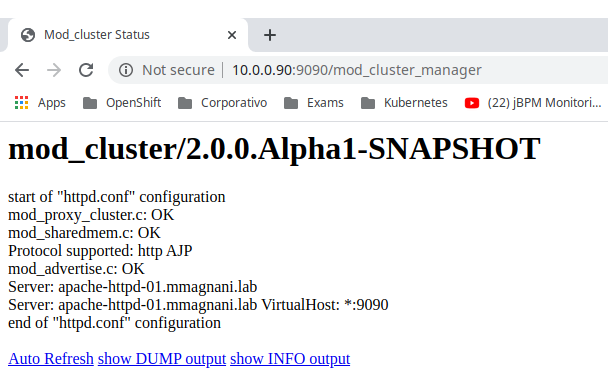
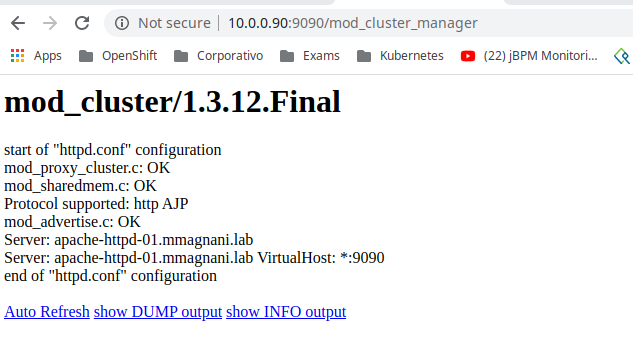
update wildfly post

diff --git a/_posts/2019-12-21-wildfly-ha-3.md b/_posts/2019-12-21-wildfly-ha-3.md
@@ -29,14 +29,12 @@ The first step will be to add two new properties to our WildFly instances. The p
     <servers>
         <server name="server-marketing-0" group="marketing">
             <system-properties>
-                <property name="wildfly.instance.id" value="node-marketing-0" boot-time="true"/>
                 <property name="jboss.node.name" value="node-marketing-0" boot-time="true"/>
                 <property name="wildfly.balancer.name" value="marketing-lb" boot-time="true"/>
             </system-properties>
         </server>
         <server name="server-accounting-0" group="accounting">
             <system-properties>
-                <property name="wildfly.instance.id" value="node-accounting-0" boot-time="true"/>
                 <property name="jboss.node.name" value="node-accounting-0" boot-time="true"/>
                 <property name="wildfly.balancer.name" value="accounting-lb" boot-time="true"/>
             </system-properties>
@@ -59,14 +57,12 @@ Now perform the same procedure for "Slave1".
     <servers>
         <server name="server-marketing-1" group="marketing">
             <system-properties>
-                <property name="wildfly.instance.id" value="node-marketing-1" boot-time="true"/>
                 <property name="jboss.node.name" value="node-marketing-1" boot-time="true"/>
                 <property name="wildfly.balancer.name" value="marketing-lb" boot-time="true"/>
             </system-properties>
         </server>
         <server name="server-accounting-1" group="accounting">
             <system-properties>
-                <property name="wildfly.instance.id" value="node-accounting-1" boot-time="true"/>
                 <property name="jboss.node.name" value="node-accounting-1" boot-time="true"/>
                 <property name="wildfly.balancer.name" value="accounting-lb" boot-time="true"/>
             </system-properties>
@@ -74,6 +70,46 @@ Now perform the same procedure for "Slave1".
         </server>
     </servers>
 ##suppressed
+{% endhighlight %}
+
+As you may have noticed, every configuration of the technologies available in WildFly is done  in the "Master". Remember that we currently have two groups "marketing" and "accounting" that are using the profile "full-ha" and socket-binding "full-ha-sockets".
+
+Then in the "Master" edit the domain.xml file and add a new socket with our VIP defined in chapter I.
+
+{% highlight bash %}
+[root@server-domain ~]# pwd
+/usr/local/wildfly/wildfly-18.0.1.Final
+[root@server-domain ~]# vi master/configuration/domain.xml 
+{% endhighlight %}
+
+{% highlight xml %}
+##around line 1880 // full-ha-sockets
+        <outbound-socket-binding name="proxy">
+            <remote-destination host="10.0.0.90" port="9090"/>
+        </outbound-socket-binding>
+##suppressed
+{% endhighlight %}
+
+Within the "full-ha" profile edit the modcluster subsystem and add the instance-id and balancer properties.
+
+{% highlight xml %}
+##around line 1658 // profile full-ha
+        <proxy name="default" advertise-socket="modcluster" listener="ajp" proxies="proxy" balancer="${wildfly.balancer.name}">
+##suppressed
+{% endhighlight %}
+
+Restart the WildFly service on the master and then on the slaves.
+
+{% highlight bash %}
+[root@server-domain ~]# systemctl restart wildfly
+{% endhighlight %}
+
+{% highlight bash %}
+[root@server-slave-0 ~]# systemctl restart wildfly
+{% endhighlight %}
+
+{% highlight bash %}
+[root@server-slave-1 ~]#  systemctl restart wildfly
 {% endhighlight %}
 
 

diff --git a/_posts/2019-12-18-wildfly-ha-1.md b/_posts/2019-12-18-wildfly-ha-1.md
@@ -211,9 +211,10 @@ The best way to get updated binaries for CentoS 7 is by compiling. I know this c
 {% highlight bash %}
 [root@apache-httpd-01 ~]# yum install git cmake gcc gcc-c++ apt-util apr-devel apr-util-devel httpd-devel -y
 [root@apache-httpd-01 ~]# cd /tmp
-[root@apache-httpd-01 ~]# git clone https://github.com/modcluster/mod_proxy_cluster.git
-[root@apache-httpd-01 ~]# cd mod_proxy_cluster
-[root@apache-httpd-01 ~]# cd mod_proxy_cluster/native/
+[root@apache-httpd-01 ~]# git clone https://github.com/modcluster/mod_cluster.git
+[root@apache-httpd-01 ~]# cd mod_cluster
+[root@apache-httpd-01 ~]# git checkout 1.3.x
+[root@apache-httpd-01 ~]# cd native
 [root@apache-httpd-01 ~]# mkdir build
 [root@apache-httpd-01 ~]# cd build
 [root@apache-httpd-01 build]# cmake ../ -G "Unix Makefiles"
